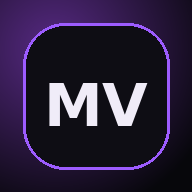
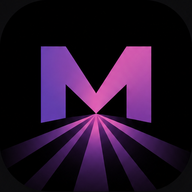
Add files via upload

diff --git a/styles.css b/styles.css
@@ -15,7 +15,7 @@
   --radius: 22px;
   --shadow: 0 22px 70px rgba(0,0,0,.34);
 }
-*{box-sizing:border-box} html{scroll-behavior:smooth} body{margin:0;background:var(--bg);color:var(--text);font-family:Inter,system-ui,sans-serif;min-height:100vh;overflow-x:hidden} button,input,select{font:inherit} a{color:inherit;text-decoration:none} button{cursor:pointer}.ambient{position:fixed;border-radius:50%;filter:blur(100px);opacity:.18;pointer-events:none;z-index:-1}.ambient-one{width:480px;height:480px;background:#7046ff;top:-180px;left:-160px}.ambient-two{width:380px;height:380px;background:#cf37ff;right:-100px;top:300px}.site-header{width:min(1180px,calc(100% - 36px));height:80px;margin:0 auto;display:flex;align-items:center;justify-content:space-between;position:relative;z-index:30}.brand{display:flex;align-items:center;gap:8px;font-size:22px;font-weight:800;letter-spacing:-.7px}.brand-mark{display:grid;place-items:center;padding:6px 8px;border-radius:9px;background:linear-gradient(135deg,var(--accent),var(--accent-2));box-shadow:0 6px 28px rgba(141,92,255,.28);font-size:15px;letter-spacing:-.4px}.nav{display:flex;gap:30px;align-items:center}.nav a,.nav-link,.back-link{border:0;background:none;color:#bdb9c9;font-weight:600;padding:8px 0}.nav a:hover,.nav-link:hover,.back-link:hover{color:#fff}.hero{width:min(960px,calc(100% - 36px));margin:88px auto 100px;text-align:center}.hero-badge,.eyebrow{display:inline-flex;color:#bba5ff;text-transform:uppercase;letter-spacing:.12em;font-size:11px;font-weight:800}.hero h1{font-size:clamp(46px,8vw,88px);line-height:.98;letter-spacing:-5px;margin:22px auto 24px;max-width:900px}.hero h1 span{background:linear-gradient(100deg,#fff 15%,#a875ff 55%,#e265ff);-webkit-background-clip:text;background-clip:text;color:transparent}.hero>p{color:var(--muted);font-size:18px;max-width:620px;margin:0 auto 34px;line-height:1.65}.search-shell{position:relative;display:grid;grid-template-columns:26px 1fr auto;align-items:center;gap:14px;padding:10px 10px 10px 20px;background:rgba(18,17,29,.82);border:1px solid rgba(255,255,255,.1);border-radius:20px;box-shadow:0 24px 80px rgba(0,0,0,.36),inset 0 1px 0 rgba(255,255,255,.04);backdrop-filter:blur(18px);max-width:780px;margin:0 auto;text-align:left}.search-shell svg{width:23px;fill:none;stroke:#7f7a8f;stroke-width:2}.search-shell input{height:50px;border:0;outline:0;background:transparent;color:#fff;font-size:16px;min-width:0}.search-shell input::placeholder{color:#777382}.search-shell>button{height:48px;padding:0 24px;border:0;border-radius:13px;background:linear-gradient(135deg,var(--accent),#a748ed);color:white;font-weight:700;box-shadow:0 10px 26px rgba(130,71,240,.25)}.suggestions{position:absolute;left:0;right:0;top:calc(100% + 10px);padding:8px;background:#111018;border:1px solid var(--line);border-radius:18px;box-shadow:var(--shadow);z-index:50;max-height:430px;overflow:auto}.suggestion-row{display:flex;align-items:center;gap:12px;padding:9px;border-radius:12px}.suggestion-row:hover{background:rgba(255,255,255,.06)}.suggestion-row img,.suggestion-fallback{width:42px;height:58px;object-fit:cover;border-radius:8px;background:#1c1928;display:grid;place-items:center;font-weight:800;font-size:11px}.suggestion-row span:last-child{display:flex;flex-direction:column;gap:5px;min-width:0}.suggestion-row strong{font-size:13px;white-space:nowrap;overflow:hidden;text-overflow:ellipsis}.suggestion-row small{font-size:11px;color:var(--muted)}.hero-chips{display:flex;justify-content:center;gap:8px;flex-wrap:wrap;margin-top:18px}.hero-chips button{background:rgba(255,255,255,.035);border:1px solid var(--line);color:#aaa6b4;border-radius:999px;padding:8px 13px;font-size:12px}.hero-chips button:hover{color:#fff;border-color:rgba(141,92,255,.38)}.catalog,.movie-content{width:min(1180px,calc(100% - 36px));margin:0 auto}.section-heading{display:flex;align-items:flex-end;justify-content:space-between;gap:20px;margin-bottom:24px}.section-heading h2{font-size:30px;letter-spacing:-1.5px;margin:8px 0 0}.result-count{font-size:12px;color:var(--muted)}.filters{display:grid;grid-template-columns:1.1fr 1.2fr 1fr 1fr auto auto;gap:10px;padding:14px;background:rgba(18,17,27,.6);border:1px solid var(--line);border-radius:20px;margin-bottom:26px;backdrop-filter:blur(12px)}.filters label{display:flex;flex-direction:column;gap:7px}.filters label span{font-size:10px;text-transform:uppercase;letter-spacing:.1em;color:#716d7e;font-weight:700;padding-left:4px}.filters select,.filters input{height:43px;border:1px solid rgba(255,255,255,.07);border-radius:11px;background:#0e0d15;color:#ddd;padding:0 12px;outline:0}.filter-submit,.filter-reset{align-self:end;height:43px;border-radius:11px;font-weight:700}.filter-submit{border:0;background:#fff;color:#0b0a10;padding:0 17px}.filter-reset{border:1px solid var(--line);background:transparent;color:#9692a2;padding:0 14px}.movie-grid{display:grid;grid-template-columns:repeat(5,minmax(0,1fr));gap:30px 16px}.movie-card{display:block;min-width:0;transition:transform .2s ease}.movie-card:hover{transform:translateY(-5px)}.poster-wrap{position:relative;aspect-ratio:2/3;border-radius:18px;overflow:hidden;background:#12111a;border:1px solid rgba(255,255,255,.06);box-shadow:0 16px 40px rgba(0,0,0,.22)}.poster-wrap img{width:100%;height:100%;display:block;object-fit:cover;transition:transform .35s ease}.movie-card:hover .poster-wrap img{transform:scale(1.025)}.poster-fallback{width:100%;height:100%;display:grid;place-items:center;font-weight:800;color:#665a7d;font-size:34px;background:radial-gradient(circle at 30% 25%,#2d2440,#0d0c12 65%)}.rating-pill,.type-pill{position:absolute;top:10px;padding:6px 8px;border-radius:9px;font-size:11px;font-weight:800;backdrop-filter:blur(10px)}.rating-pill{left:10px;color:#fff;background:rgba(14,14,17,.82)}.type-pill{right:10px;background:rgba(12,12,15,.7);color:#c8c5cf}.rating-high{background:rgba(37,143,80,.91)!important}.rating-mid{background:rgba(167,122,34,.91)!important}.rating-low{background:rgba(174,61,61,.91)!important}.rating-muted{background:rgba(65,62,70,.88)!important}.card-copy{padding:12px 3px 0}.card-copy h3{font-size:14px;line-height:1.35;margin:0 0 6px;white-space:nowrap;overflow:hidden;text-overflow:ellipsis}.card-copy p{font-size:11px;color:#85808f;margin:0;white-space:nowrap;overflow:hidden;text-overflow:ellipsis}.notice{padding:18px 20px;border:1px solid var(--line);border-radius:15px;background:#111018;color:#b7b3c0;margin:20px 0}.notice-error{border-color:rgba(239,104,104,.25);color:#ef9999}.pagination{display:flex;justify-content:center;align-items:center;gap:20px;margin:45px 0 20px}.pagination button{border:1px solid var(--line);background:#111018;color:#ddd;padding:10px 15px;border-radius:11px}.pagination button:disabled{opacity:.35;cursor:not-allowed}.pagination span{font-size:12px;color:var(--muted)}.skeleton{background:linear-gradient(90deg,#12111a 25%,#1b1924 40%,#12111a 65%);background-size:300% 100%;animation:shimmer 1.35s infinite}.skeleton-card:hover{transform:none}.skeleton-line{height:13px;border-radius:6px;margin:13px 4px 0}.skeleton-line.small{width:62%;height:10px;margin-top:8px}@keyframes shimmer{0%{background-position:100% 0}100%{background-position:0 0}}footer{width:min(1180px,calc(100% - 36px));margin:100px auto 0;padding:34px 0 42px;border-top:1px solid var(--line);display:flex;align-items:center;justify-content:space-between;color:#77727f;font-size:12px}.brand-small{font-size:16px}.brand-small .brand-mark{font-size:10px;padding:5px 6px}.movie-page{background:#07070b}.movie-header{position:absolute;left:50%;transform:translateX(-50%);top:0;width:min(1180px,calc(100% - 36px))}.movie-hero{min-height:760px;position:relative;display:flex;align-items:flex-end;padding:130px 0 72px;background:#08080c;overflow:hidden}.movie-backdrop{position:absolute;inset:0;background-image:linear-gradient(to bottom,rgba(7,7,11,.34),#07070b 94%),linear-gradient(90deg,rgba(7,7,11,.88) 0%,rgba(7,7,11,.38) 65%,rgba(7,7,11,.7) 100%),var(--movie-bg);background-size:cover;background-position:center 24%;filter:saturate(.75);transform:scale(1.02)}.movie-hero-inner{position:relative;z-index:2;width:min(1180px,calc(100% - 36px));margin:0 auto;display:grid;grid-template-columns:270px minmax(0,700px);gap:52px;align-items:end}.movie-poster{aspect-ratio:2/3;border-radius:22px;overflow:hidden;border:1px solid rgba(255,255,255,.12);box-shadow:0 30px 70px rgba(0,0,0,.55);background:#111}.movie-poster img{width:100%;height:100%;object-fit:cover}.movie-kicker{font-size:12px;font-weight:700;color:#afa9b8;margin-bottom:15px}.movie-main-copy h1{font-size:clamp(44px,6vw,74px);line-height:.98;letter-spacing:-3.5px;margin:0 0 12px}.movie-subtitle{font-size:18px;color:#aaa5b2;margin:0 0 13px}.movie-meta{color:#bbb6c3;font-size:13px;margin:0 0 24px}.movie-ratings{display:flex;gap:25px;margin-bottom:24px}.movie-ratings>div{display:flex;align-items:center;gap:8px}.rating-box{display:grid;place-items:center;min-width:49px;height:39px;border-radius:10px;background:rgba(255,255,255,.12);font-size:15px;font-weight:800}.movie-ratings small{color:#9d98a6}.movie-description{font-size:15px;line-height:1.7;color:#d0ccd6;max-width:680px}.movie-actions{display:flex;gap:10px;margin-top:26px}.watch-button,.secondary-button{display:inline-flex;align-items:center;justify-content:center;min-height:50px;border-radius:13px;padding:0 20px;font-weight:800;font-size:14px}.watch-button{background:linear-gradient(135deg,var(--accent),#b44ee9);box-shadow:0 12px 35px rgba(141,92,255,.25)}.secondary-button{border:1px solid rgba(255,255,255,.14);background:rgba(255,255,255,.06);backdrop-filter:blur(12px);color:#d7d3dc}.movie-content{padding-top:10px}.facts-panel{display:grid;grid-template-columns:repeat(5,1fr);gap:1px;background:var(--line);border:1px solid var(--line);border-radius:18px;overflow:hidden;margin-bottom:70px}.facts-panel>div{background:#0e0d14;padding:20px;display:flex;flex-direction:column;gap:8px}.facts-panel span{font-size:10px;text-transform:uppercase;letter-spacing:.08em;color:#696573}.facts-panel strong{font-size:12px;line-height:1.5}.content-section{margin:0 0 72px}.people-row,.similar-row{display:grid;grid-template-columns:repeat(6,1fr);gap:14px}.person-card{min-width:0}.person-photo{aspect-ratio:1/1;border-radius:15px;overflow:hidden;background:#121119;margin-bottom:10px}.person-photo img{width:100%;height:100%;object-fit:cover}.person-photo span{height:100%;display:grid;place-items:center;color:#625972;font-weight:800}.person-card strong,.similar-card strong{display:block;font-size:12px;white-space:nowrap;overflow:hidden;text-overflow:ellipsis}.person-card small,.similar-card small{display:block;font-size:10px;color:#77727f;margin-top:4px;white-space:nowrap;overflow:hidden;text-overflow:ellipsis}.reviews-grid{display:grid;grid-template-columns:repeat(2,1fr);gap:14px}.review-card{padding:22px;border:1px solid var(--line);border-radius:17px;background:#0e0d14}.review-card h3{font-size:15px;margin:18px 0 8px}.review-card p{font-size:12px;line-height:1.7;color:#aaa5b1;margin:0;white-space:pre-line}.review-head{display:flex;justify-content:space-between;gap:15px;font-size:12px}.review-head span{font-size:10px;color:#85808e}.review-positive{border-top-color:rgba(67,209,122,.5)}.review-negative{border-top-color:rgba(239,104,104,.5)}.review-neutral{border-top-color:rgba(228,182,77,.45)}.similar-card>div{aspect-ratio:2/3;border-radius:14px;overflow:hidden;background:#121119;margin-bottom:10px}.similar-card img{width:100%;height:100%;object-fit:cover}.similar-card>div span{height:100%;display:grid;place-items:center;color:#625972}.movie-loader,.page-error{min-height:70vh;display:flex;align-items:center;justify-content:center;flex-direction:column;gap:16px;text-align:center;padding:120px 20px}.spinner{width:34px;height:34px;border-radius:50%;border:3px solid rgba(255,255,255,.08);border-top-color:#8d5cff;animation:spin .8s linear infinite}@keyframes spin{to{transform:rotate(360deg)}}.movie-loader span,.page-error p{color:var(--muted)}.page-error h1{margin:0}.page-error a{padding:11px 15px;background:#fff;color:#08080b;border-radius:11px;font-weight:700}.poster-fallback.big{font-size:48px}
+*{box-sizing:border-box} html{scroll-behavior:smooth} body{margin:0;background:var(--bg);color:var(--text);font-family:Inter,system-ui,sans-serif;min-height:100vh;overflow-x:hidden} button,input,select{font:inherit} a{color:inherit;text-decoration:none} button{cursor:pointer}.ambient{position:fixed;border-radius:50%;filter:blur(100px);opacity:.18;pointer-events:none;z-index:-1}.ambient-one{width:480px;height:480px;background:#7046ff;top:-180px;left:-160px}.ambient-two{width:380px;height:380px;background:#cf37ff;right:-100px;top:300px}.site-header{width:min(1180px,calc(100% - 36px));height:80px;margin:0 auto;display:flex;align-items:center;justify-content:space-between;position:relative;z-index:30}.brand{display:flex;align-items:center;gap:10px;font-size:22px;font-weight:800;letter-spacing:-.7px}.brand-logo{display:block;width:34px;height:34px;border-radius:10px;object-fit:cover;box-shadow:0 6px 24px rgba(126,75,220,.18)}.brand-word{display:inline-flex;align-items:baseline}.brand-mvp{background:linear-gradient(100deg,#8358dc,#d956b7);-webkit-background-clip:text;background-clip:text;color:transparent}.brand-small .brand-logo{width:27px;height:27px;border-radius:8px}.brand-small .brand-word{font-size:16px}.error-brand{margin-bottom:8px}.error-brand .brand-logo{width:52px;height:52px;border-radius:14px}.page-error-action{padding:11px 15px;background:#fff;color:#08080b;border-radius:11px;font-weight:700}.nav{display:flex;gap:30px;align-items:center}.nav a,.nav-link,.back-link{border:0;background:none;color:#bdb9c9;font-weight:600;padding:8px 0}.nav a:hover,.nav-link:hover,.back-link:hover{color:#fff}.hero{width:min(960px,calc(100% - 36px));margin:88px auto 100px;text-align:center}.hero-badge,.eyebrow{display:inline-flex;color:#bba5ff;text-transform:uppercase;letter-spacing:.12em;font-size:11px;font-weight:800}.hero h1{font-size:clamp(46px,8vw,88px);line-height:.98;letter-spacing:-5px;margin:22px auto 24px;max-width:900px}.hero h1 span{background:linear-gradient(100deg,#fff 15%,#a875ff 55%,#e265ff);-webkit-background-clip:text;background-clip:text;color:transparent}.hero>p{color:var(--muted);font-size:18px;max-width:620px;margin:0 auto 34px;line-height:1.65}.search-shell{position:relative;display:grid;grid-template-columns:26px 1fr auto;align-items:center;gap:14px;padding:10px 10px 10px 20px;background:rgba(18,17,29,.82);border:1px solid rgba(255,255,255,.1);border-radius:20px;box-shadow:0 24px 80px rgba(0,0,0,.36),inset 0 1px 0 rgba(255,255,255,.04);backdrop-filter:blur(18px);max-width:780px;margin:0 auto;text-align:left}.search-shell svg{width:23px;fill:none;stroke:#7f7a8f;stroke-width:2}.search-shell input{height:50px;border:0;outline:0;background:transparent;color:#fff;font-size:16px;min-width:0}.search-shell input::placeholder{color:#777382}.search-shell>button{height:48px;padding:0 24px;border:0;border-radius:13px;background:linear-gradient(135deg,var(--accent),#a748ed);color:white;font-weight:700;box-shadow:0 10px 26px rgba(130,71,240,.25)}.suggestions{position:absolute;left:0;right:0;top:calc(100% + 10px);padding:8px;background:#111018;border:1px solid var(--line);border-radius:18px;box-shadow:var(--shadow);z-index:50;max-height:430px;overflow:auto}.suggestion-row{display:flex;align-items:center;gap:12px;padding:9px;border-radius:12px}.suggestion-row:hover{background:rgba(255,255,255,.06)}.suggestion-row img,.suggestion-fallback{width:42px;height:58px;object-fit:cover;border-radius:8px;background:#1c1928;display:grid;place-items:center;font-weight:800;font-size:11px}.suggestion-row span:last-child{display:flex;flex-direction:column;gap:5px;min-width:0}.suggestion-row strong{font-size:13px;white-space:nowrap;overflow:hidden;text-overflow:ellipsis}.suggestion-row small{font-size:11px;color:var(--muted)}.hero-chips{display:flex;justify-content:center;gap:8px;flex-wrap:wrap;margin-top:18px}.hero-chips button{background:rgba(255,255,255,.035);border:1px solid var(--line);color:#aaa6b4;border-radius:999px;padding:8px 13px;font-size:12px}.hero-chips button:hover{color:#fff;border-color:rgba(141,92,255,.38)}.catalog,.movie-content{width:min(1180px,calc(100% - 36px));margin:0 auto}.section-heading{display:flex;align-items:flex-end;justify-content:space-between;gap:20px;margin-bottom:24px}.section-heading h2{font-size:30px;letter-spacing:-1.5px;margin:8px 0 0}.result-count{font-size:12px;color:var(--muted)}.filters{display:grid;grid-template-columns:1.1fr 1.2fr 1fr 1fr auto auto;gap:10px;padding:14px;background:rgba(18,17,27,.6);border:1px solid var(--line);border-radius:20px;margin-bottom:26px;backdrop-filter:blur(12px)}.filters label{display:flex;flex-direction:column;gap:7px}.filters label span{font-size:10px;text-transform:uppercase;letter-spacing:.1em;color:#716d7e;font-weight:700;padding-left:4px}.filters select,.filters input{height:43px;border:1px solid rgba(255,255,255,.07);border-radius:11px;background:#0e0d15;color:#ddd;padding:0 12px;outline:0}.filter-submit,.filter-reset{align-self:end;height:43px;border-radius:11px;font-weight:700}.filter-submit{border:0;background:#fff;color:#0b0a10;padding:0 17px}.filter-reset{border:1px solid var(--line);background:transparent;color:#9692a2;padding:0 14px}.movie-grid{display:grid;grid-template-columns:repeat(5,minmax(0,1fr));gap:30px 16px}.movie-card{display:block;min-width:0;transition:transform .2s ease}.movie-card:hover{transform:translateY(-5px)}.poster-wrap{position:relative;aspect-ratio:2/3;border-radius:18px;overflow:hidden;background:#12111a;border:1px solid rgba(255,255,255,.06);box-shadow:0 16px 40px rgba(0,0,0,.22)}.poster-wrap img{width:100%;height:100%;display:block;object-fit:cover;transition:transform .35s ease}.movie-card:hover .poster-wrap img{transform:scale(1.025)}.poster-fallback{width:100%;height:100%;display:grid;place-items:center;font-weight:800;color:#665a7d;font-size:34px;background:radial-gradient(circle at 30% 25%,#2d2440,#0d0c12 65%)}.rating-pill,.type-pill{position:absolute;top:10px;padding:6px 8px;border-radius:9px;font-size:11px;font-weight:800;backdrop-filter:blur(10px)}.rating-pill{left:10px;color:#fff;background:rgba(14,14,17,.82)}.type-pill{right:10px;background:rgba(12,12,15,.7);color:#c8c5cf}.rating-high{background:rgba(37,143,80,.91)!important}.rating-mid{background:rgba(167,122,34,.91)!important}.rating-low{background:rgba(174,61,61,.91)!important}.rating-muted{background:rgba(65,62,70,.88)!important}.card-copy{padding:12px 3px 0}.card-copy h3{font-size:14px;line-height:1.35;margin:0 0 6px;white-space:nowrap;overflow:hidden;text-overflow:ellipsis}.card-copy p{font-size:11px;color:#85808f;margin:0;white-space:nowrap;overflow:hidden;text-overflow:ellipsis}.notice{padding:18px 20px;border:1px solid var(--line);border-radius:15px;background:#111018;color:#b7b3c0;margin:20px 0}.notice-error{border-color:rgba(239,104,104,.25);color:#ef9999}.pagination{display:flex;justify-content:center;align-items:center;gap:20px;margin:45px 0 20px}.pagination button{border:1px solid var(--line);background:#111018;color:#ddd;padding:10px 15px;border-radius:11px}.pagination button:disabled{opacity:.35;cursor:not-allowed}.pagination span{font-size:12px;color:var(--muted)}.skeleton{background:linear-gradient(90deg,#12111a 25%,#1b1924 40%,#12111a 65%);background-size:300% 100%;animation:shimmer 1.35s infinite}.skeleton-card:hover{transform:none}.skeleton-line{height:13px;border-radius:6px;margin:13px 4px 0}.skeleton-line.small{width:62%;height:10px;margin-top:8px}@keyframes shimmer{0%{background-position:100% 0}100%{background-position:0 0}}footer{width:min(1180px,calc(100% - 36px));margin:100px auto 0;padding:34px 0 42px;border-top:1px solid var(--line);display:flex;align-items:center;justify-content:space-between;color:#77727f;font-size:12px}.brand-small{font-size:16px}.movie-page{background:#07070b}.movie-header{position:absolute;left:50%;transform:translateX(-50%);top:0;width:min(1180px,calc(100% - 36px))}.movie-hero{min-height:760px;position:relative;display:flex;align-items:flex-end;padding:130px 0 72px;background:#08080c;overflow:hidden}.movie-backdrop{position:absolute;inset:0;background-image:linear-gradient(to bottom,rgba(7,7,11,.34),#07070b 94%),linear-gradient(90deg,rgba(7,7,11,.88) 0%,rgba(7,7,11,.38) 65%,rgba(7,7,11,.7) 100%),var(--movie-bg);background-size:cover;background-position:center 24%;filter:saturate(.75);transform:scale(1.02)}.movie-hero-inner{position:relative;z-index:2;width:min(1180px,calc(100% - 36px));margin:0 auto;display:grid;grid-template-columns:270px minmax(0,700px);gap:52px;align-items:end}.movie-poster{aspect-ratio:2/3;border-radius:22px;overflow:hidden;border:1px solid rgba(255,255,255,.12);box-shadow:0 30px 70px rgba(0,0,0,.55);background:#111}.movie-poster img{width:100%;height:100%;object-fit:cover}.movie-kicker{font-size:12px;font-weight:700;color:#afa9b8;margin-bottom:15px}.movie-main-copy h1{font-size:clamp(44px,6vw,74px);line-height:.98;letter-spacing:-3.5px;margin:0 0 12px}.movie-subtitle{font-size:18px;color:#aaa5b2;margin:0 0 13px}.movie-meta{color:#bbb6c3;font-size:13px;margin:0 0 24px}.movie-ratings{display:flex;gap:25px;margin-bottom:24px}.movie-ratings>div{display:flex;align-items:center;gap:8px}.rating-box{display:grid;place-items:center;min-width:49px;height:39px;border-radius:10px;background:rgba(255,255,255,.12);font-size:15px;font-weight:800}.movie-ratings small{color:#9d98a6}.movie-description{font-size:15px;line-height:1.7;color:#d0ccd6;max-width:680px}.movie-actions{display:flex;gap:10px;margin-top:26px}.watch-button,.secondary-button{display:inline-flex;align-items:center;justify-content:center;min-height:50px;border-radius:13px;padding:0 20px;font-weight:800;font-size:14px}.watch-button{background:linear-gradient(135deg,var(--accent),#b44ee9);box-shadow:0 12px 35px rgba(141,92,255,.25)}.secondary-button{border:1px solid rgba(255,255,255,.14);background:rgba(255,255,255,.06);backdrop-filter:blur(12px);color:#d7d3dc}.movie-content{padding-top:10px}.facts-panel{display:grid;grid-template-columns:repeat(5,1fr);gap:1px;background:var(--line);border:1px solid var(--line);border-radius:18px;overflow:hidden;margin-bottom:70px}.facts-panel>div{background:#0e0d14;padding:20px;display:flex;flex-direction:column;gap:8px}.facts-panel span{font-size:10px;text-transform:uppercase;letter-spacing:.08em;color:#696573}.facts-panel strong{font-size:12px;line-height:1.5}.content-section{margin:0 0 72px}.people-row,.similar-row{display:grid;grid-template-columns:repeat(6,1fr);gap:14px}.person-card{min-width:0}.person-photo{aspect-ratio:1/1;border-radius:15px;overflow:hidden;background:#121119;margin-bottom:10px}.person-photo img{width:100%;height:100%;object-fit:cover}.person-photo span{height:100%;display:grid;place-items:center;color:#625972;font-weight:800}.person-card strong,.similar-card strong{display:block;font-size:12px;white-space:nowrap;overflow:hidden;text-overflow:ellipsis}.person-card small,.similar-card small{display:block;font-size:10px;color:#77727f;margin-top:4px;white-space:nowrap;overflow:hidden;text-overflow:ellipsis}.reviews-grid{display:grid;grid-template-columns:repeat(2,1fr);gap:14px}.review-card{padding:22px;border:1px solid var(--line);border-radius:17px;background:#0e0d14}.review-card h3{font-size:15px;margin:18px 0 8px}.review-card p{font-size:12px;line-height:1.7;color:#aaa5b1;margin:0;white-space:pre-line}.review-head{display:flex;justify-content:space-between;gap:15px;font-size:12px}.review-head span{font-size:10px;color:#85808e}.review-positive{border-top-color:rgba(67,209,122,.5)}.review-negative{border-top-color:rgba(239,104,104,.5)}.review-neutral{border-top-color:rgba(228,182,77,.45)}.similar-card>div{aspect-ratio:2/3;border-radius:14px;overflow:hidden;background:#121119;margin-bottom:10px}.similar-card img{width:100%;height:100%;object-fit:cover}.similar-card>div span{height:100%;display:grid;place-items:center;color:#625972}.movie-loader,.page-error{min-height:70vh;display:flex;align-items:center;justify-content:center;flex-direction:column;gap:16px;text-align:center;padding:120px 20px}.spinner{width:34px;height:34px;border-radius:50%;border:3px solid rgba(255,255,255,.08);border-top-color:#8d5cff;animation:spin .8s linear infinite}@keyframes spin{to{transform:rotate(360deg)}}.movie-loader span,.page-error p{color:var(--muted)}.page-error h1{margin:0}.page-error a{padding:11px 15px;background:#fff;color:#08080b;border-radius:11px;font-weight:700}.poster-fallback.big{font-size:48px}
 @media(max-width:980px){.movie-grid{grid-template-columns:repeat(4,1fr)}.filters{grid-template-columns:repeat(3,1fr)}.filter-submit,.filter-reset{align-self:auto;margin-top:17px}.movie-hero-inner{grid-template-columns:220px 1fr;gap:34px}.facts-panel{grid-template-columns:repeat(3,1fr)}.people-row,.similar-row{grid-template-columns:repeat(4,1fr)}}
 @media(max-width:700px){.site-header{height:66px}.nav{gap:15px}.nav a:first-child{display:none}.brand{font-size:18px}.hero{margin:70px auto 70px}.hero h1{font-size:52px;letter-spacing:-3px}.hero>p{font-size:15px}.search-shell{grid-template-columns:22px 1fr;padding:9px 12px 9px 16px}.search-shell>button{grid-column:1/-1;width:100%;height:44px}.movie-grid{grid-template-columns:repeat(2,1fr);gap:24px 12px}.filters{grid-template-columns:1fr 1fr}.section-heading h2{font-size:25px}footer{flex-direction:column;align-items:flex-start;gap:12px}.movie-hero{min-height:auto;padding:110px 0 42px}.movie-hero-inner{grid-template-columns:120px 1fr;gap:20px;align-items:start}.movie-main-copy h1{font-size:37px;letter-spacing:-2px}.movie-kicker{font-size:10px}.movie-subtitle{font-size:13px}.movie-meta{font-size:11px}.movie-description{grid-column:1/-1}.movie-ratings{gap:10px}.movie-ratings small{display:none}.movie-actions{flex-wrap:wrap}.facts-panel{grid-template-columns:1fr 1fr;margin-bottom:52px}.people-row,.similar-row{display:flex;overflow-x:auto;scroll-snap-type:x mandatory;padding-bottom:8px}.person-card,.similar-card{min-width:130px;scroll-snap-align:start}.reviews-grid{grid-template-columns:1fr}.content-section{margin-bottom:54px}}
 @media(max-width:470px){.nav{gap:12px}.nav-link{font-size:12px}.hero h1{font-size:44px}.hero-chips{justify-content:flex-start}.filters{grid-template-columns:1fr}.filter-submit,.filter-reset{margin-top:0}.movie-hero-inner{grid-template-columns:100px 1fr}.movie-main-copy h1{font-size:30px}.movie-description{font-size:13px}.movie-actions{grid-column:1/-1}.watch-button,.secondary-button{flex:1}.facts-panel{grid-template-columns:1fr}.result-count{display:none}}

diff --git a/my.html b/my.html
@@ -8,14 +8,17 @@
   <meta name="apple-mobile-web-app-capable" content="yes" />
   <meta name="apple-mobile-web-app-status-bar-style" content="black-translucent" />
   <link rel="manifest" href="manifest.webmanifest" />
-  <link rel="apple-touch-icon" href="icons/icon-192.png" />
+  <link rel="icon" type="image/png" sizes="32x32" href="icons/favicon-32.png" />
+  <link rel="icon" type="image/png" sizes="16x16" href="icons/favicon-16.png" />
+  <link rel="apple-touch-icon" sizes="180x180" href="icons/apple-touch-icon.png" />
+  <meta name="apple-mobile-web-app-title" content="MVPoisk" />
   <title>Моё — MVPoisk</title>
-  <link rel="stylesheet" href="styles.css?v=16" />
+  <link rel="stylesheet" href="styles.css?v=17" />
 </head>
 <body>
   <div class="ambient ambient-one"></div><div class="ambient ambient-two"></div>
   <header class="site-header">
-    <a class="brand" href="./" aria-label="MVPoisk — на главную"><span class="brand-mark">MV</span><span>Poisk</span></a>
+    <a class="brand" href="./" aria-label="MVPoisk — на главную"><img class="brand-logo" src="icons/logo-mark-64.png" alt="" width="34" height="34" /><span class="brand-word"><span class="brand-mvp">MVP</span><span>oisk</span></span></a>
     <nav class="nav">
       <a href="./">Каталог</a>
       <button class="nav-link nav-profile" type="button" data-profile-open>Профиль</button>
@@ -36,8 +39,8 @@
       <div class="library-empty" id="libraryEmpty" hidden><div class="empty-icon">☆</div><h2>Здесь пока пусто</h2><p>Открой фильм и добавь его в список — он появится здесь.</p><a class="primary-action" href="./">Перейти в каталог</a></div>
     </section>
   </main>
-  <footer><a class="brand brand-small" href="./"><span class="brand-mark">MV</span><span>Poisk</span></a><p>Списки хранятся локально в этом браузере.</p></footer>
-  <script type="module" src="js/common.js?v=16"></script>
-  <script type="module" src="js/my.js?v=16"></script>
+  <footer><a class="brand brand-small" href="./"><img class="brand-logo" src="icons/logo-mark-64.png" alt="" width="34" height="34" /><span class="brand-word"><span class="brand-mvp">MVP</span><span>oisk</span></span></a><p>Списки хранятся локально в этом браузере.</p></footer>
+  <script type="module" src="js/common.js?v=17"></script>
+  <script type="module" src="js/my.js?v=17"></script>
 </body>
 </html>

diff --git a/index.html b/index.html
@@ -7,11 +7,14 @@
   <meta name="apple-mobile-web-app-capable" content="yes" />
   <meta name="apple-mobile-web-app-status-bar-style" content="black-translucent" />
   <link rel="manifest" href="manifest.webmanifest" />
-  <link rel="apple-touch-icon" href="icons/icon-192.png" />
+  <link rel="icon" type="image/png" sizes="32x32" href="icons/favicon-32.png" />
+  <link rel="icon" type="image/png" sizes="16x16" href="icons/favicon-16.png" />
+  <link rel="apple-touch-icon" sizes="180x180" href="icons/apple-touch-icon.png" />
+  <meta name="apple-mobile-web-app-title" content="MVPoisk" />
   <meta name="description" content="MVPoisk — поиск фильмов и сериалов, рейтинги, отзывы и информация о кино." />
   <title>MVPoisk — фильмы и сериалы</title>
   <link rel="preconnect" href="https://api.poiskkino.dev" crossorigin>
-  <link rel="stylesheet" href="styles.css?v=16" />
+  <link rel="stylesheet" href="styles.css?v=17" />
 </head>
 <body>
   <div class="ambient ambient-one"></div>
@@ -19,7 +22,7 @@
 
   <header class="site-header">
     <a class="brand" href="./" aria-label="MVPoisk — на главную">
-      <span class="brand-mark">MV</span><span>Poisk</span>
+      <img class="brand-logo" src="icons/logo-mark-64.png" alt="" width="34" height="34" /><span class="brand-word"><span class="brand-mvp">MVP</span><span>oisk</span></span>
     </a>
     <nav class="nav">
       <a href="#discover">Фильмы</a>
@@ -124,11 +127,11 @@
   </main>
 
   <footer>
-    <a class="brand brand-small" href="./"><span class="brand-mark">MV</span><span>Poisk</span></a>
+    <a class="brand brand-small" href="./"><img class="brand-logo" src="icons/logo-mark-64.png" alt="" width="34" height="34" /><span class="brand-word"><span class="brand-mvp">MVP</span><span>oisk</span></span></a>
     <p>Информация о кино предоставляется через ПоискКино API.</p>
   </footer>
 
-  <script type="module" src="js/common.js?v=16"></script>
-  <script type="module" src="js/app.js?v=16"></script>
+  <script type="module" src="js/common.js?v=17"></script>
+  <script type="module" src="js/app.js?v=17"></script>
 </body>
 </html>

diff --git a/movie.html b/movie.html
@@ -7,13 +7,16 @@
   <meta name="apple-mobile-web-app-capable" content="yes" />
   <meta name="apple-mobile-web-app-status-bar-style" content="black-translucent" />
   <link rel="manifest" href="manifest.webmanifest" />
-  <link rel="apple-touch-icon" href="icons/icon-192.png" />
+  <link rel="icon" type="image/png" sizes="32x32" href="icons/favicon-32.png" />
+  <link rel="icon" type="image/png" sizes="16x16" href="icons/favicon-16.png" />
+  <link rel="apple-touch-icon" sizes="180x180" href="icons/apple-touch-icon.png" />
+  <meta name="apple-mobile-web-app-title" content="MVPoisk" />
   <title>Фильм — MVPoisk</title>
-  <link rel="stylesheet" href="styles.css?v=16" />
+  <link rel="stylesheet" href="styles.css?v=17" />
 </head>
 <body class="movie-page">
   <header class="site-header movie-header">
-    <a class="brand" href="./" aria-label="MVPoisk — на главную"><span class="brand-mark">MV</span><span>Poisk</span></a>
+    <a class="brand" href="./" aria-label="MVPoisk — на главную"><img class="brand-logo" src="icons/logo-mark-64.png" alt="" width="34" height="34" /><span class="brand-word"><span class="brand-mvp">MVP</span><span>oisk</span></span></a>
     <div class="movie-header-tools">
       <a class="back-link" href="./">← К каталогу</a>
       <a class="back-link" href="my.html">Моё <span class="nav-count" data-list-count hidden>0</span></a>
@@ -30,11 +33,11 @@
   </main>
 
   <footer>
-    <a class="brand brand-small" href="./"><span class="brand-mark">MV</span><span>Poisk</span></a>
+    <a class="brand brand-small" href="./"><img class="brand-logo" src="icons/logo-mark-64.png" alt="" width="34" height="34" /><span class="brand-word"><span class="brand-mvp">MVP</span><span>oisk</span></span></a>
     <p>Информация о кино предоставляется через ПоискКино API.</p>
   </footer>
 
-  <script type="module" src="js/common.js?v=16"></script>
-  <script type="module" src="js/movie.js?v=16"></script>
+  <script type="module" src="js/common.js?v=17"></script>
+  <script type="module" src="js/movie.js?v=17"></script>
 </body>
 </html>

diff --git a/404.html b/404.html
@@ -1,1 +1,25 @@
-<!doctype html><html lang="ru"><head><meta charset="utf-8"><meta name="viewport" content="width=device-width,initial-scale=1"><title>404 — MVPoisk</title><link rel="stylesheet" href="styles.css"></head><body><main class="page-error"><h1>Страница не найдена</h1><p>Вернись в каталог MVPoisk.</p><a href="./">На главную</a></main></body></html>
+<!doctype html>
+<html lang="ru">
+<head>
+  <meta charset="utf-8" />
+  <meta name="viewport" content="width=device-width,initial-scale=1" />
+  <meta name="theme-color" content="#07070b" />
+  <meta name="apple-mobile-web-app-capable" content="yes" />
+  <meta name="apple-mobile-web-app-status-bar-style" content="black-translucent" />
+  <meta name="apple-mobile-web-app-title" content="MVPoisk" />
+  <link rel="manifest" href="manifest.webmanifest" />
+  <link rel="icon" type="image/png" sizes="32x32" href="icons/favicon-32.png" />
+  <link rel="icon" type="image/png" sizes="16x16" href="icons/favicon-16.png" />
+  <link rel="apple-touch-icon" sizes="180x180" href="icons/apple-touch-icon.png" />
+  <title>404 — MVPoisk</title>
+  <link rel="stylesheet" href="styles.css?v=17" />
+</head>
+<body>
+  <main class="page-error">
+    <a class="brand error-brand" href="./" aria-label="MVPoisk — на главную"><img class="brand-logo" src="icons/logo-mark-128.png" alt="" width="52" height="52" /><span class="brand-word"><span class="brand-mvp">MVP</span><span>oisk</span></span></a>
+    <h1>Страница не найдена</h1>
+    <p>Вернись в каталог MVPoisk.</p>
+    <a class="page-error-action" href="./">На главную</a>
+  </main>
+</body>
+</html>

diff --git a/sw.js b/sw.js
@@ -1,9 +1,11 @@
-const CACHE = 'mvpoisk-shell-v16';
+const CACHE = 'mvpoisk-shell-v17';
 const SHELL = [
-  './', './index.html', './movie.html', './my.html', './404.html', './styles.css?v=16',
-  './js/config.js?v=16', './js/api.js?v=16', './js/images.js?v=16', './js/storage.js?v=16',
-  './js/common.js?v=16', './js/app.js?v=16', './js/movie.js?v=16', './js/my.js?v=16',
-  './manifest.webmanifest', './icons/icon-192.png', './icons/icon-512.png'
+  './', './index.html', './movie.html', './my.html', './404.html', './styles.css?v=17',
+  './js/config.js?v=17', './js/api.js?v=17', './js/images.js?v=17', './js/storage.js?v=17',
+  './js/common.js?v=17', './js/app.js?v=17', './js/movie.js?v=17', './js/my.js?v=17',
+  './manifest.webmanifest',
+  './icons/favicon-16.png', './icons/favicon-32.png', './icons/logo-mark-64.png', './icons/logo-mark-128.png',
+  './icons/apple-touch-icon.png', './icons/icon-192.png', './icons/icon-512.png', './icons/icon-maskable-512.png'
 ];
 self.addEventListener('install', event => {
   event.waitUntil(caches.open(CACHE).then(cache => cache.addAll(SHELL)).then(() => self.skipWaiting()));

diff --git a/js/common.js b/js/common.js
@@ -1,4 +1,4 @@
-import { getProfile, saveProfile, clearProfile, counts } from './storage.js?v=16';
+import { getProfile, saveProfile, clearProfile, counts } from './storage.js?v=17';
 
 function updateHeaderState() {
   const total = counts().watchLater + counts().favorites;
@@ -133,7 +133,7 @@ function setupInstall() {
 
 async function registerServiceWorker() {
   if (!('serviceWorker' in navigator)) return;
-  try { await navigator.serviceWorker.register('./sw.js?v=16'); } catch (error) { console.warn('PWA service worker:', error); }
+  try { await navigator.serviceWorker.register('./sw.js?v=17'); } catch (error) { console.warn('PWA service worker:', error); }
 }
 
 document.querySelectorAll('[data-profile-open]').forEach(node => node.addEventListener('click', openProfileModal));

diff --git a/js/movie.js b/js/movie.js
@@ -1,7 +1,7 @@
-import { getMovie, getReviews, getSimilarMovies } from './api.js?v=16';
-import { getWatchUrl } from './config.js?v=16';
-import { imageUrl, imageAttrs, bindImageFallbacks } from './images.js?v=16';
-import { hasInList, toggleInList } from './storage.js?v=16';
+import { getMovie, getReviews, getSimilarMovies } from './api.js?v=17';
+import { getWatchUrl } from './config.js?v=17';
+import { imageUrl, imageAttrs, bindImageFallbacks } from './images.js?v=17';
+import { hasInList, toggleInList } from './storage.js?v=17';
 
 const root = document.querySelector('#movieRoot');
 const params = new URLSearchParams(location.search);

diff --git a/js/app.js b/js/app.js
@@ -1,6 +1,6 @@
-import { CONFIG } from './config.js?v=16';
-import { getMovies, searchMovies } from './api.js?v=16';
-import { imageAttrs, bindImageFallbacks } from './images.js?v=16';
+import { CONFIG } from './config.js?v=17';
+import { getMovies, searchMovies } from './api.js?v=17';
+import { imageAttrs, bindImageFallbacks } from './images.js?v=17';
 
 const $ = selector => document.querySelector(selector);
 const grid = $('#movieGrid');

diff --git a/js/my.js b/js/my.js
@@ -1,5 +1,5 @@
-import { getList, removeFromList, getProfile, counts } from './storage.js?v=16';
-import { imageAttrs, bindImageFallbacks } from './images.js?v=16';
+import { getList, removeFromList, getProfile, counts } from './storage.js?v=17';
+import { imageAttrs, bindImageFallbacks } from './images.js?v=17';
 
 const grid = document.querySelector('#savedGrid');
 const empty = document.querySelector('#libraryEmpty');

diff --git a/js/api.js b/js/api.js
@@ -1,4 +1,4 @@
-import { CONFIG } from './config.js?v=16';
+import { CONFIG } from './config.js?v=17';
 
 const memoryCache = new Map();
 

diff --git a/README.md b/README.md
@@ -22,3 +22,6 @@
 
 ## v16 — pagination
 Demo/free ПоискКино API разрешает только первые 10 API-страниц. MVPoisk v16 запрашивает до 240 элементов за разрешённую API-страницу и делит их локально по 20 карточек. Поэтому каталог может листаться примерно до 120 обычных страниц без запроса запрещённой 11-й API-страницы.
+
+## Брендинг v17
+Официальный знак MVPoisk добавлен в шапку/подвал сайта, favicon, Apple Touch Icon и PWA manifest. Иконки находятся в `icons/`.
